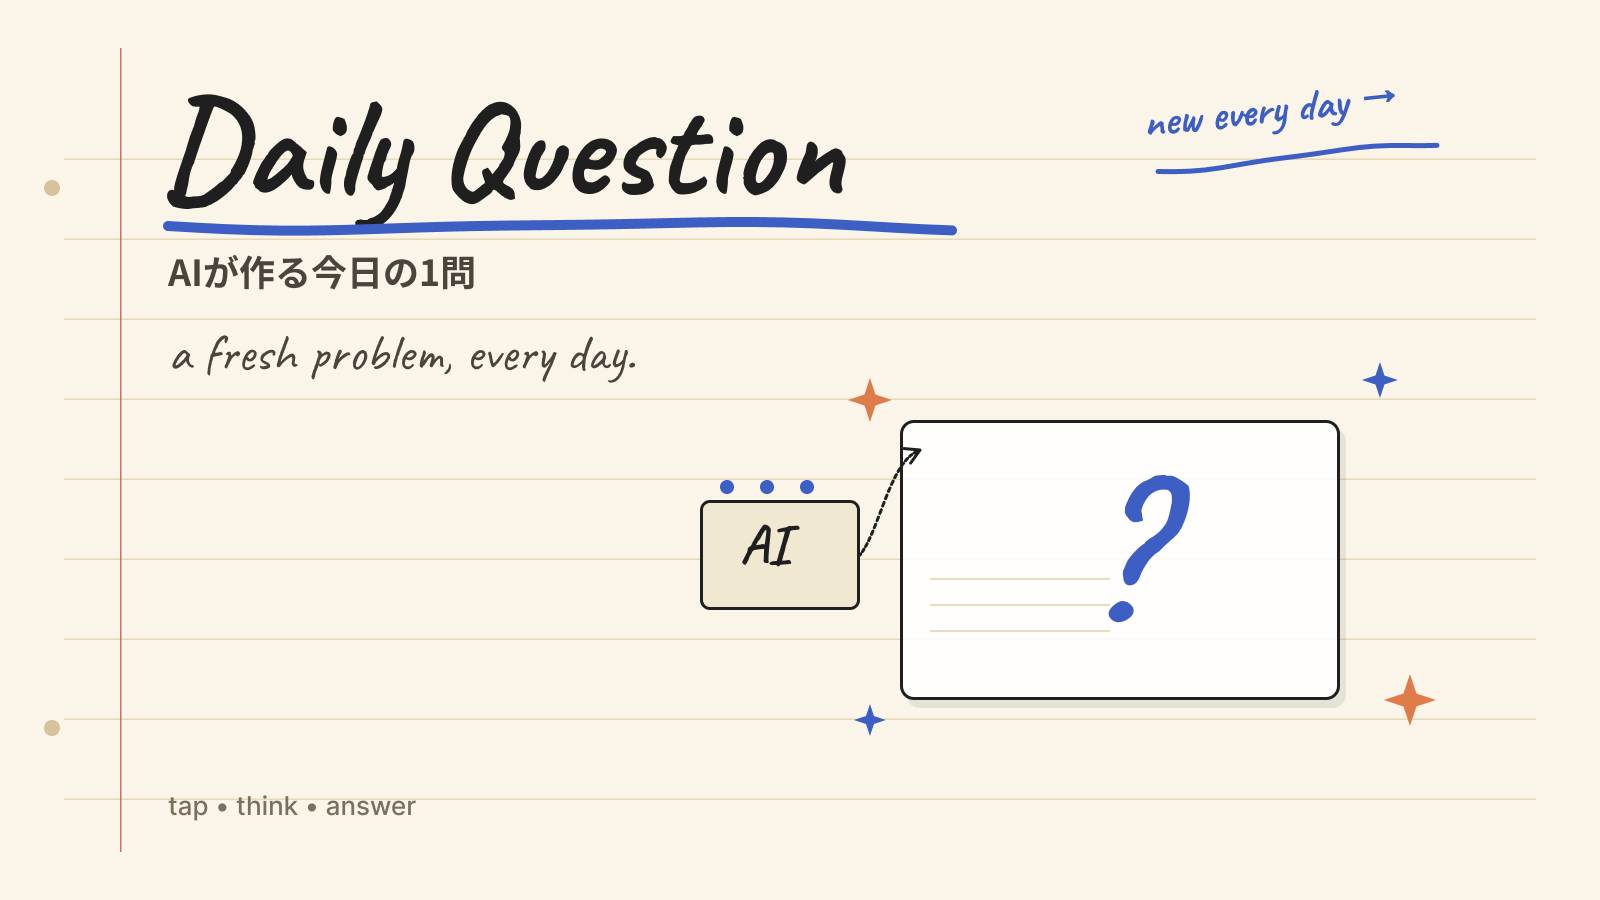
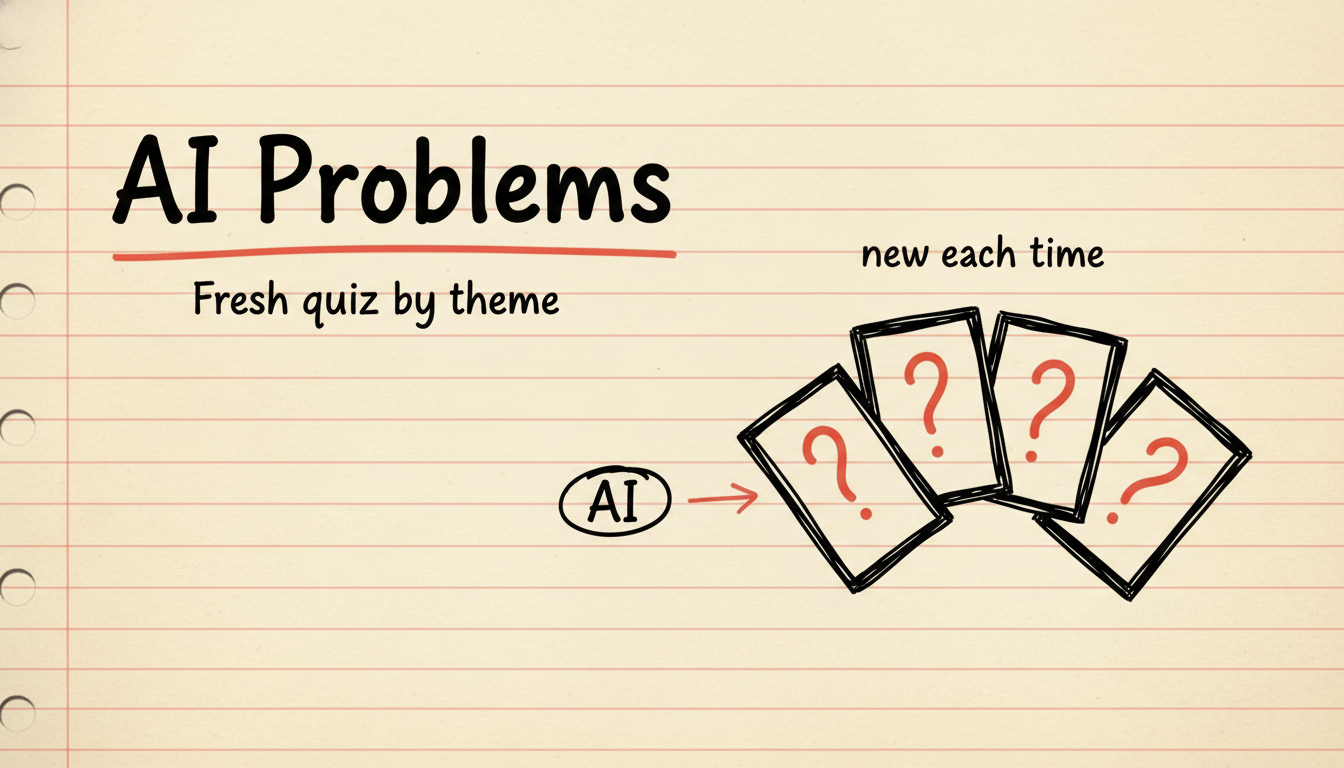
feat(thumbnails): regenerate home-roleplay & home-daily-question in Caveat v3
home の AI問題生成・ロールプレイのサムネを既存のレッスン/コース
サムネと同じ Caveat 風 v3（クリーム notebook + 手書きタイトル + 図解）
に作り直し、Gemini Nano Banana で 16:9 (1344×768) 出力。

- scripts/homePromptsV2.ts: 2 home tile プロンプト追加
- scripts/generate-home-thumbnails-v2.ts: home tile 専用生成スクリプト
  (imageConfig.aspectRatio='16:9' を指定して縦横比を強制)
- scripts/lessonPromptsV2.ts: ACRONYM_WHITELIST に 'AI' を追加
  (titleCase が "AI" を "Ai" に変換していたのを修正)

diff --git a/scripts/generate-home-thumbnails-v2.ts b/scripts/generate-home-thumbnails-v2.ts
@@ -1,0 +1,189 @@
+/**
+ * Generate home tile thumbnails (v2 — Caveat-style 16:9 hand-drawn notebook)
+ * via Gemini API.
+ *
+ * Usage:
+ *   npx tsx scripts/generate-home-thumbnails-v2.ts                    # all home tiles
+ *   npx tsx scripts/generate-home-thumbnails-v2.ts --only=home-roleplay
+ *   npx tsx scripts/generate-home-thumbnails-v2.ts --skip-existing
+ *   npx tsx scripts/generate-home-thumbnails-v2.ts --model=imagen-4.0-generate-001
+ *   npx tsx scripts/generate-home-thumbnails-v2.ts --concurrency=2
+ *   npx tsx scripts/generate-home-thumbnails-v2.ts --out=tmp/home-batch
+ *
+ * Default output: public/images/v3/{slug}.png (overwrites existing).
+ * Default model: gemini-2.5-flash-image (Nano Banana).
+ */
+
+import { writeFile, mkdir, access, readFile } from 'node:fs/promises'
+import { resolve, dirname } from 'node:path'
+import { fileURLToPath } from 'node:url'
+import { buildCoursePrompt } from './careerPromptsV2.ts'
+import { HOME_PROMPTS_V2 } from './homePromptsV2.ts'
+import type { LessonPromptEntry } from './lessonPromptsV2.ts'
+
+type Args = {
+  only: string[] | null
+  skipExisting: boolean
+  model: string
+  concurrency: number
+  out: string
+}
+
+function parseArgs(argv: string[]): Args {
+  const get = (k: string) => argv.find((a) => a.startsWith(`--${k}=`))?.slice(`--${k}=`.length)
+  const has = (k: string) => argv.includes(`--${k}`)
+  const only = get('only')?.split(',').map((s) => s.trim()).filter(Boolean) ?? null
+  return {
+    only,
+    skipExisting: has('skip-existing'),
+    model: get('model') ?? 'gemini-2.5-flash-image',
+    concurrency: Number(get('concurrency') ?? 2),
+    out: get('out') ?? 'public/images/v3',
+  }
+}
+
+async function loadEnv(): Promise<Record<string, string>> {
+  const envPath = resolve(process.cwd(), '.env')
+  const text = await readFile(envPath, 'utf-8')
+  const env: Record<string, string> = {}
+  for (const line of text.split('\n')) {
+    const trimmed = line.trim()
+    if (!trimmed || trimmed.startsWith('#')) continue
+    const eq = trimmed.indexOf('=')
+    if (eq < 0) continue
+    env[trimmed.slice(0, eq).trim()] = trimmed.slice(eq + 1).trim()
+  }
+  return env
+}
+
+type GenResult = { ok: true; bytes: Buffer } | { ok: false; error: string }
+
+async function generate(prompt: string, apiKey: string, model: string): Promise<GenResult> {
+  const isImagen = model.startsWith('imagen-')
+  const url = isImagen
+    ? `https://generativelanguage.googleapis.com/v1beta/models/${model}:predict?key=${apiKey}`
+    : `https://generativelanguage.googleapis.com/v1beta/models/${model}:generateContent?key=${apiKey}`
+
+  const body = isImagen
+    ? {
+        instances: [{ prompt }],
+        parameters: { sampleCount: 1, aspectRatio: '16:9', safetyFilterLevel: 'block_only_high' },
+      }
+    : {
+        contents: [{ parts: [{ text: prompt }] }],
+        generationConfig: {
+          responseModalities: ['IMAGE', 'TEXT'],
+          imageConfig: { aspectRatio: '16:9' },
+        },
+      }
+
+  const res = await fetch(url, {
+    method: 'POST',
+    headers: { 'content-type': 'application/json' },
+    body: JSON.stringify(body),
+  })
+
+  if (!res.ok) {
+    const errText = await res.text().catch(() => '')
+    return { ok: false, error: `HTTP ${res.status}: ${errText.slice(0, 400)}` }
+  }
+
+  const json = (await res.json()) as Record<string, unknown>
+
+  if (isImagen) {
+    const preds = (json as { predictions?: { bytesBase64Encoded?: string }[] }).predictions
+    const b64 = preds?.[0]?.bytesBase64Encoded
+    if (!b64) return { ok: false, error: `no image: ${JSON.stringify(json).slice(0, 400)}` }
+    return { ok: true, bytes: Buffer.from(b64, 'base64') }
+  }
+  const cands = (json as { candidates?: { content?: { parts?: { inlineData?: { data?: string } }[] } }[] }).candidates
+  const inline = cands?.[0]?.content?.parts?.find((p) => p.inlineData?.data)?.inlineData
+  if (!inline?.data) return { ok: false, error: `no image: ${JSON.stringify(json).slice(0, 400)}` }
+  return { ok: true, bytes: Buffer.from(inline.data, 'base64') }
+}
+
+async function runConcurrent<T>(tasks: (() => Promise<T>)[], n: number): Promise<T[]> {
+  const results: T[] = new Array(tasks.length)
+  let next = 0
+  async function worker() {
+    while (next < tasks.length) {
+      const i = next++
+      results[i] = await tasks[i]()
+    }
+  }
+  await Promise.all(Array.from({ length: Math.max(1, n) }, () => worker()))
+  return results
+}
+
+async function fileExists(path: string): Promise<boolean> {
+  try {
+    await access(path)
+    return true
+  } catch {
+    return false
+  }
+}
+
+async function main() {
+  const args = parseArgs(process.argv.slice(2))
+  const env = await loadEnv()
+  const apiKey = env.GEMINI_API_KEY || process.env.GEMINI_API_KEY
+  if (!apiKey) {
+    console.error('GEMINI_API_KEY not found in .env or environment')
+    process.exit(1)
+  }
+
+  const __filename = fileURLToPath(import.meta.url)
+  const __dirname = dirname(__filename)
+  const repoRoot = resolve(__dirname, '..')
+  const outDir = resolve(repoRoot, args.out)
+  await mkdir(outDir, { recursive: true })
+
+  const allJobs = HOME_PROMPTS_V2.filter(
+    (e: LessonPromptEntry) => !args.only || args.only.includes(e.slug),
+  )
+  if (allJobs.length === 0) {
+    console.error('no jobs matched --only filter')
+    process.exit(1)
+  }
+
+  console.log(`[gen] model=${args.model} concurrency=${args.concurrency} jobs=${allJobs.length} out=${outDir}`)
+
+  let done = 0
+  let skipped = 0
+  let failed = 0
+  const failures: string[] = []
+
+  const tasks = allJobs.map((entry) => async () => {
+    const outFile = resolve(outDir, `${entry.slug}.png`)
+    if (args.skipExisting && (await fileExists(outFile))) {
+      skipped++
+      console.log(`[skip] ${entry.slug} (exists)`)
+      return
+    }
+    const prompt = buildCoursePrompt(entry)
+    const r = await generate(prompt, apiKey, args.model)
+    if (!r.ok) {
+      failed++
+      failures.push(entry.slug)
+      console.error(`[fail] ${entry.slug}: ${r.error}`)
+      return
+    }
+    await writeFile(outFile, r.bytes)
+    done++
+    console.log(`[ok]   ${entry.slug} → ${entry.slug}.png (${r.bytes.length} bytes)`)
+  })
+
+  await runConcurrent(tasks, args.concurrency)
+
+  console.log(`\n[done] ok=${done} skipped=${skipped} failed=${failed}`)
+  if (failures.length) {
+    console.log(`failed slugs: ${failures.join(',')}`)
+    console.log(`re-run failed: npx tsx scripts/generate-home-thumbnails-v2.ts --only=${failures.join(',')}`)
+  }
+}
+
+main().catch((e) => {
+  console.error(e)
+  process.exit(1)
+})

diff --git a/scripts/homePromptsV2.ts b/scripts/homePromptsV2.ts
@@ -1,0 +1,35 @@
+/**
+ * Home tile thumbnail prompts (v2 — Caveat-style hand-drawn notebook).
+ *
+ * 2 home tiles (AI Problem Generator, Roleplay), 16:9 landscape.
+ * Used by scripts/generate-home-thumbnails-v2.ts and shares the
+ * `buildCoursePrompt` helper from careerPromptsV2.ts (same 16:9 style).
+ *
+ * Style requirements come from feedback_logic_course_thumbnails.md
+ * and feedback_gemini_prompt_tricks.md.
+ *
+ * Slugs match the existing public/images/v3/home-*.png filenames
+ * referenced by src/screens/HomeScreenV3.tsx so the regenerated PNGs
+ * drop in without code changes.
+ */
+
+import type { LessonPromptEntry } from './lessonPromptsV2.ts'
+
+export const HOME_PROMPTS_V2: LessonPromptEntry[] = [
+  {
+    slug: 'home-daily-question',
+    title: 'AI Problems',
+    subtitle: 'Fresh quiz by theme',
+    diagram:
+      'on the right two-thirds of the cream notebook page, three small hand-drawn flashcard rectangles fanned out across the area, each card outlined with a thick black marker border and containing one large hand-lettered coral red question mark "?" centered inside. To the left of the fanned cards, a small oval labeled "AI" in cursive handwriting, with a single coral red arrow flowing from the AI oval to the first card. Above the cards, a short cursive handwritten annotation "new each time".',
+    spell: ['AI Problems', 'Fresh quiz by theme', 'AI', 'new each time'],
+  },
+  {
+    slug: 'home-roleplay',
+    title: 'Roleplay',
+    subtitle: 'Talk it through',
+    diagram:
+      'on the right two-thirds of the cream notebook page, two simple hand-drawn person figures facing each other from left and right — each figure is a small circle head on a short rectangular shoulders body, drawn with thick black marker, no facial details. Between them, two rounded hand-drawn speech bubbles overlapping in the middle: the left bubble (pointing right) contains the cursive word "Why?" in black, the right bubble (pointing left) contains the cursive word "Because" in black. Above the bubbles, a short cursive coral red handwritten annotation "practice talk".',
+    spell: ['Roleplay', 'Talk it through', 'Why', 'Because', 'practice talk'],
+  },
+]

diff --git a/scripts/lessonPromptsV2.ts b/scripts/lessonPromptsV2.ts
@@ -60,7 +60,7 @@ export type LessonPromptEntry = {
  */
 const ACRONYM_WHITELIST = new Set([
   'MECE', 'STAR', 'ATS', 'SPI', 'GAB', 'WFH', 'PTO', 'IMAGES', 'M&A',
-  'EN', 'PRE-EMPT', 'JP', 'NOT', 'AND', 'OR', 'WHY', 'SO',
+  'EN', 'PRE-EMPT', 'JP', 'NOT', 'AND', 'OR', 'WHY', 'SO', 'AI',
   'A', 'B', 'C', 'D', 'P', 'Q', 'R', 'S', 'T',
 ])
 
